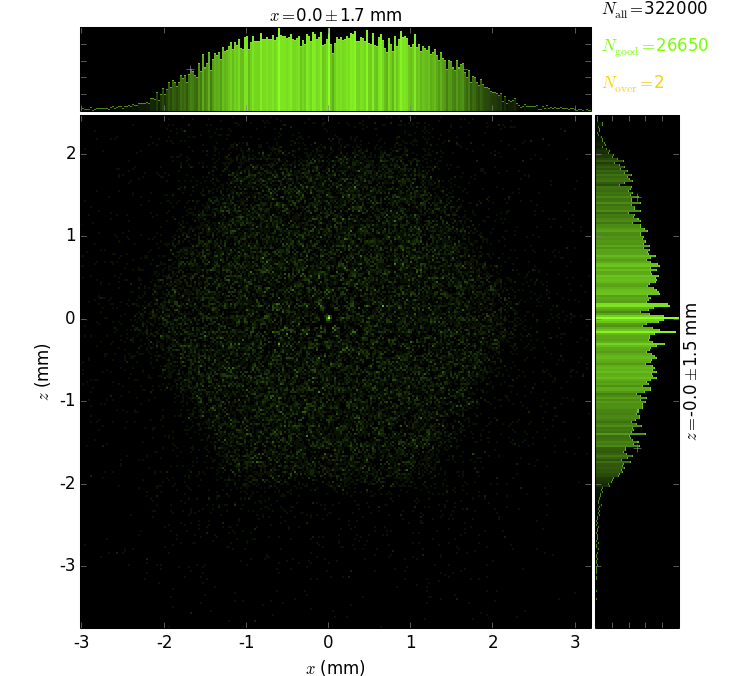
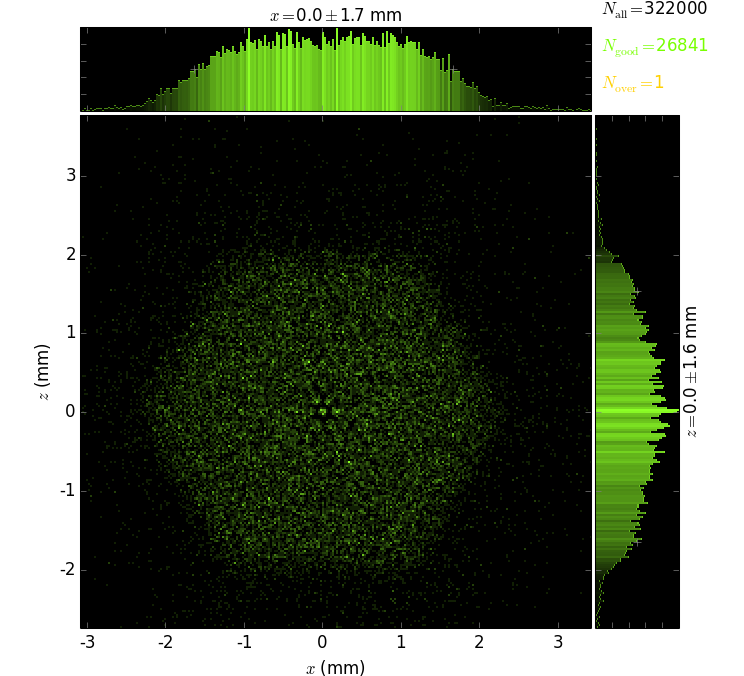
d = f+425

diff --git a/myCapillary0A.py b/myCapillary0A.py
@@ -126,7 +126,7 @@ def build_beamline(nrays=1000):
 #    beamLine.sources[0].dxprime = (np.arcsin((2*n-3) * (r0+wall) / rSample),
 #        np.arcsin((2*n+1) * (r0+wall) / rSample))
 #    beamLine.sources[0].dxprime = 0, np.arcsin(r0 / rSample)
-    beamLine.fsm2 = rsc.Screen(beamLine, 'DiamondFSM2', (0, f+400, 0))
+    beamLine.fsm2 = rsc.Screen(beamLine, 'DiamondFSM2', (0, f+425, 0))
     return beamLine
 
 def run_process(beamLine, shineOnly1stSource=False):
